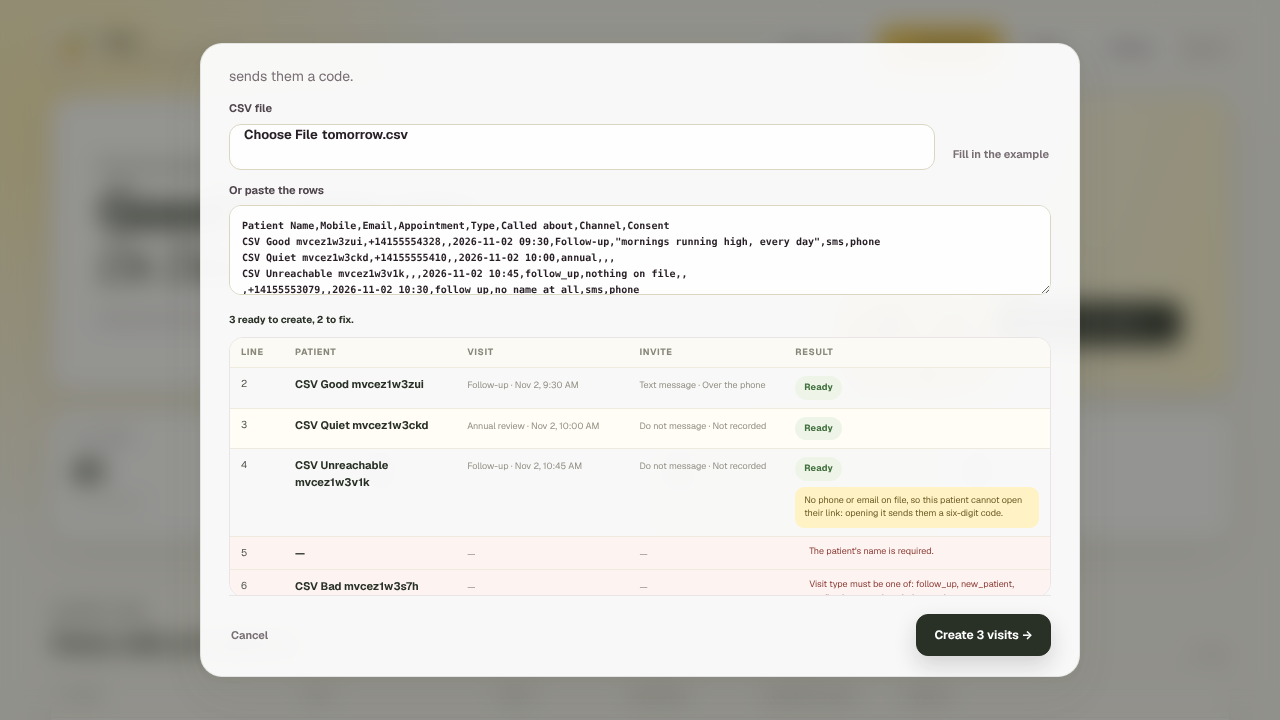
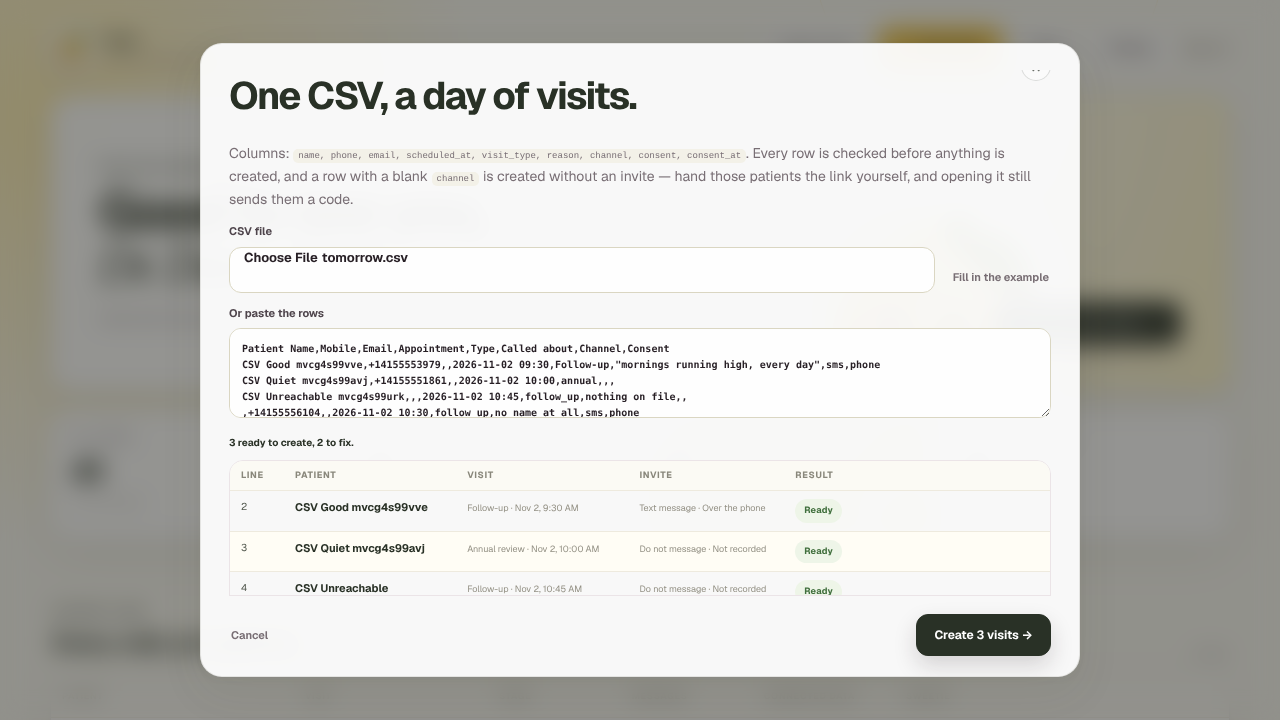
Review: put the import dialog's header back in its screenshot
The ticket's last criterion is that desktop-provider-import-preview.png shows
the whole dialog, header included, instead of starting mid-sentence at "sends
them a code.". MODAL alone did not get there: the dialog box is fully inside
the 720px viewport (top 43, bottom 677), so what was cutting the header off was
not the page's scroll but the dialog's own. `.import-scroll` is its scrolling
body, and pasting the rows leaves it scrolled past `.import-head`, so a
viewport shot still opened on the lede.

Resetting that scroller before the shot is what actually puts the title, the
close button and the whole first sentence in the picture; measured rather than
guessed (`.import-head` at top 70, bottom 135, inside a scrollport starting at
70). Scrolling the header into view instead aligns its box to the scrollport
and still clipped the eyebrow and the cap-heights off the title.

The committed screenshot is regenerated, since the one on the branch still
showed the symptom the criterion names.

Claude-Session: https://claude.ai/code/session_01SddHqhm3gtTAzqM63xMnop

diff --git a/e2e/visits.spec.ts b/e2e/visits.spec.ts
@@ -148,6 +148,16 @@ test("a day of visits imports from a CSV, one error per bad row", async ({ page 
   await expect(page.locator(".import-warning")).toContainText(/cannot open their link/i);
   // MODAL at either width: this is a dialog over the dashboard, and a full-page shot anchors at the top of
   // a very tall document, which cut the dialog's own header off above the image (T57).
+  //
+  // MODAL alone is not enough here, though: `.import-scroll` is the dialog's own scrolling body (one
+  // scrolling body with the actions fixed under it, app/provider/dashboard.tsx), and pasting the rows
+  // leaves it scrolled past its header — so the shot still began mid-sentence at "sends them a code." with
+  // the title above the fold of the dialog rather than of the page. The scroller goes back to the top
+  // rather than its header being scrolled into view, because `scrollIntoView` aligns the header's box to
+  // the scrollport and still cut the eyebrow and the cap-heights off the title.
+  await page.locator(".import-scroll").evaluate((element) => {
+    element.scrollTop = 0;
+  });
   await shot(page, "provider-import-preview", MODAL);
 
   const beforeImport = (await (await page.request.get("/api/provider")).json()) as { visits: { name: string }[] };
